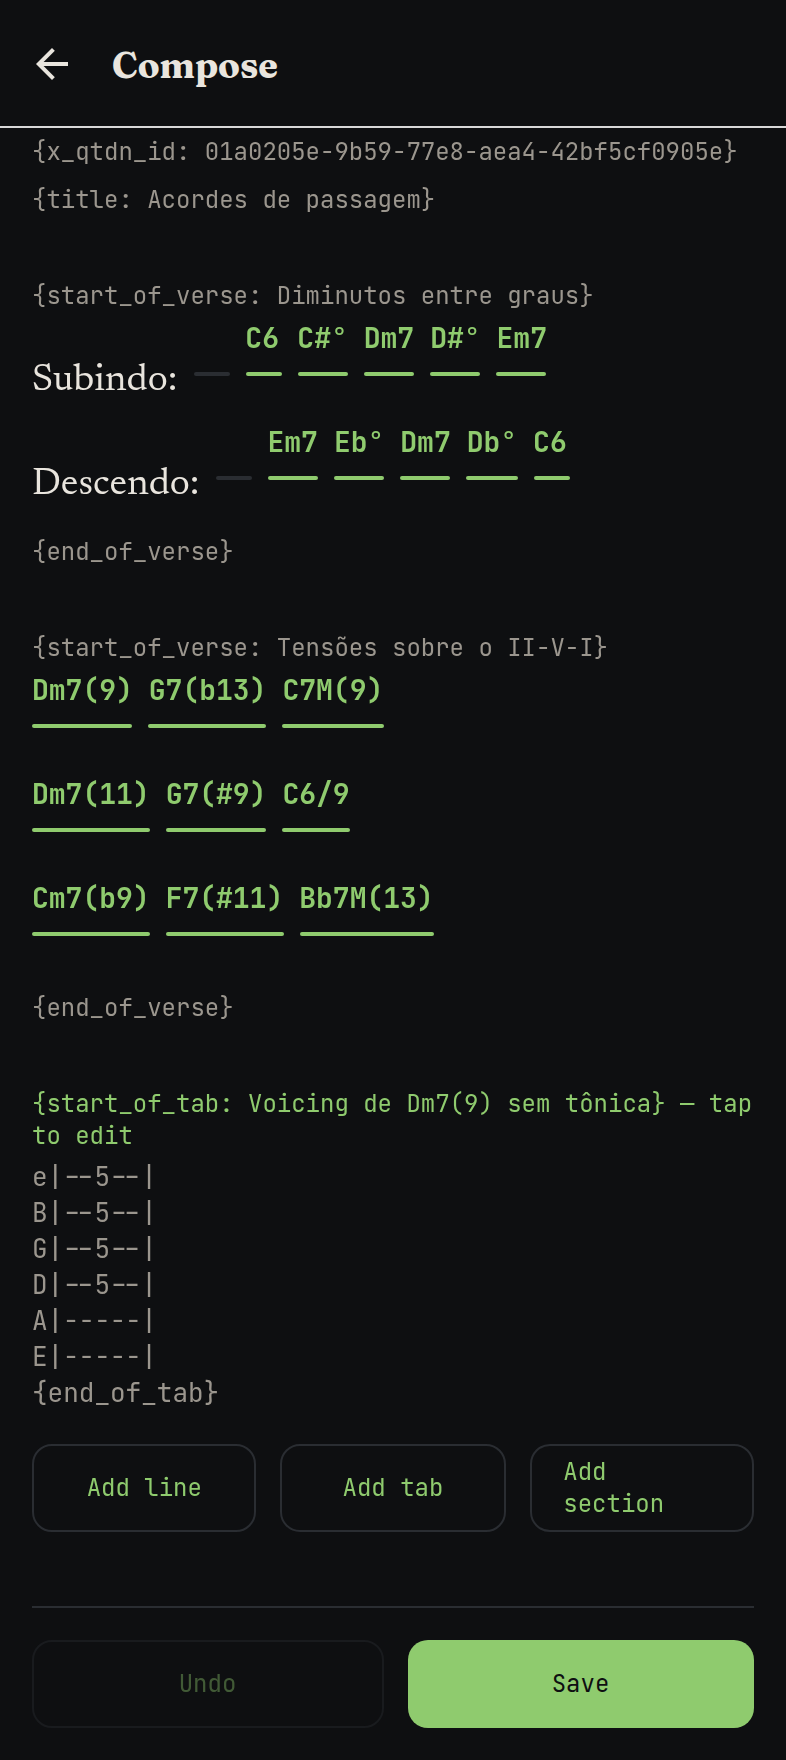
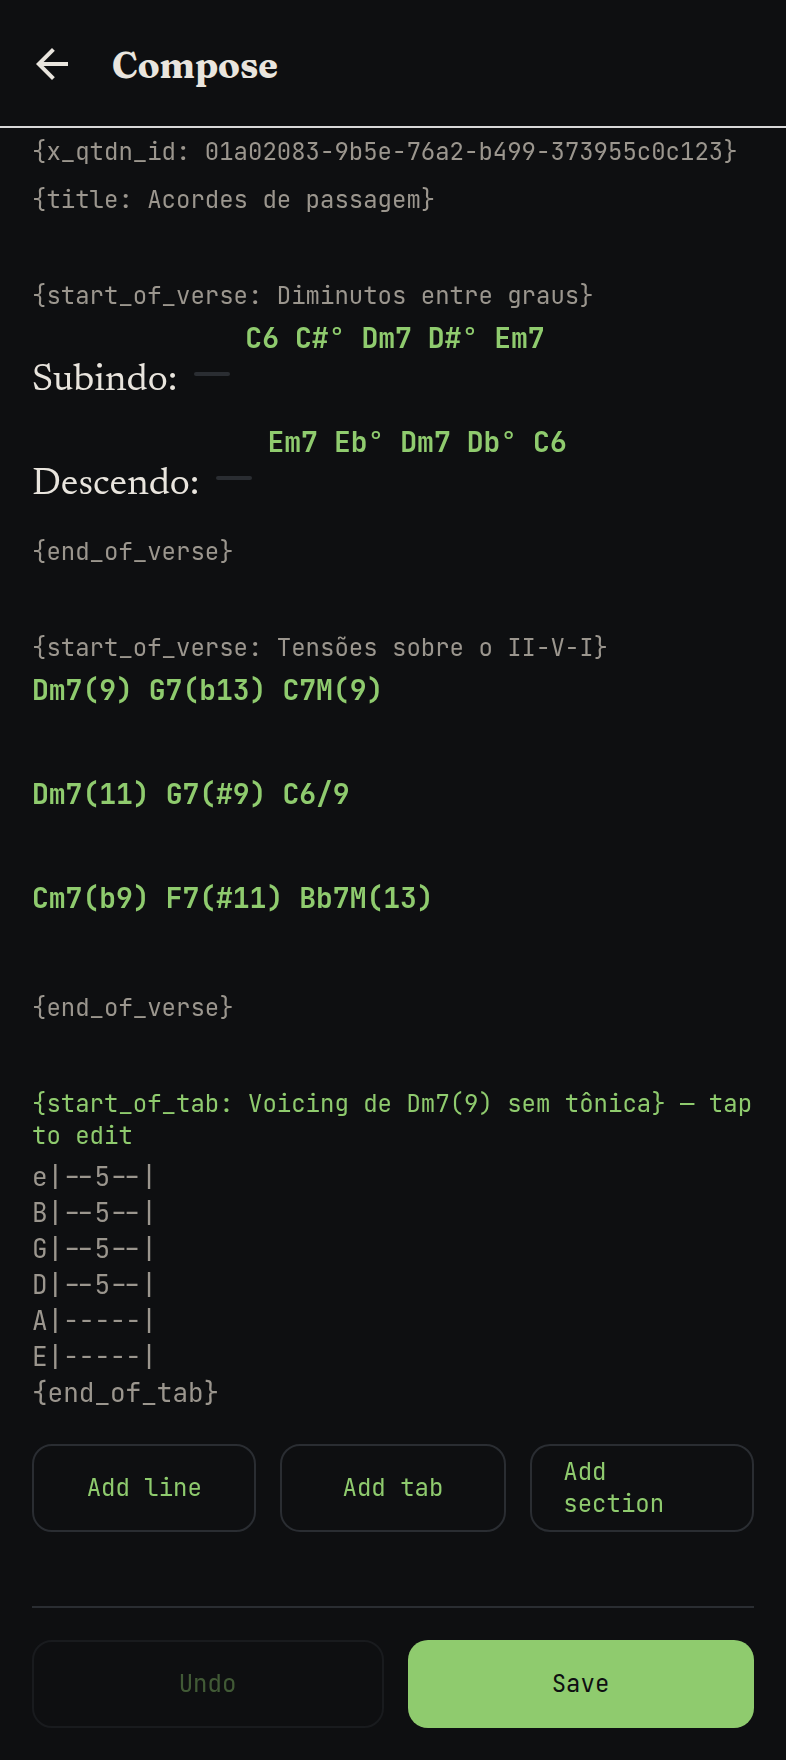
fix(mobile): drop the rule under a gap that already holds a chord
The rule exists so an empty gap stays tappable — it has nothing else to show.
A gap holding a chord does have something to show, and drawing a line under it
too turned a bare progression into rows of underlined chords.

Empty gaps keep it, since that is where the affordance is still doing work.

Claude-Session: https://claude.ai/code/session_01UvwVhADZoQ7MJJbPAnnoZA

diff --git a/apps/mobile/app/compose/[id].tsx b/apps/mobile/app/compose/[id].tsx
@@ -290,10 +290,11 @@ function Line({
           <Text variant="chord" tone="chord">
             {slot.chord ?? ' '}
           </Text>
-          {/* A gap with no chord still needs a target big enough to hit, so it renders
-              a thin rule rather than collapsing to nothing. */}
+          {/* An empty gap has nothing to show, so it renders a thin rule to stay
+              tappable. A gap that already holds a chord does not: the chord is the
+              target, and a rule under it is just noise. */}
           {slot.kind === 'gap' && slot.text.trim() === '' ? (
-            <View style={[styles.gap, slot.chord !== null && styles.gapFilled]} />
+            slot.chord === null ? <View style={styles.gap} /> : null
           ) : (
             <Text variant="lyric">{slot.text}</Text>
           )}
@@ -359,7 +360,6 @@ const styles = StyleSheet.create({
     backgroundColor: color.border,
     borderRadius: 1,
   },
-  gapFilled: { backgroundColor: color.chord },
   editor: { flexDirection: 'row', gap: space.sm, alignItems: 'center', marginBottom: space.sm },
   footer: {
     flexDirection: 'row',
